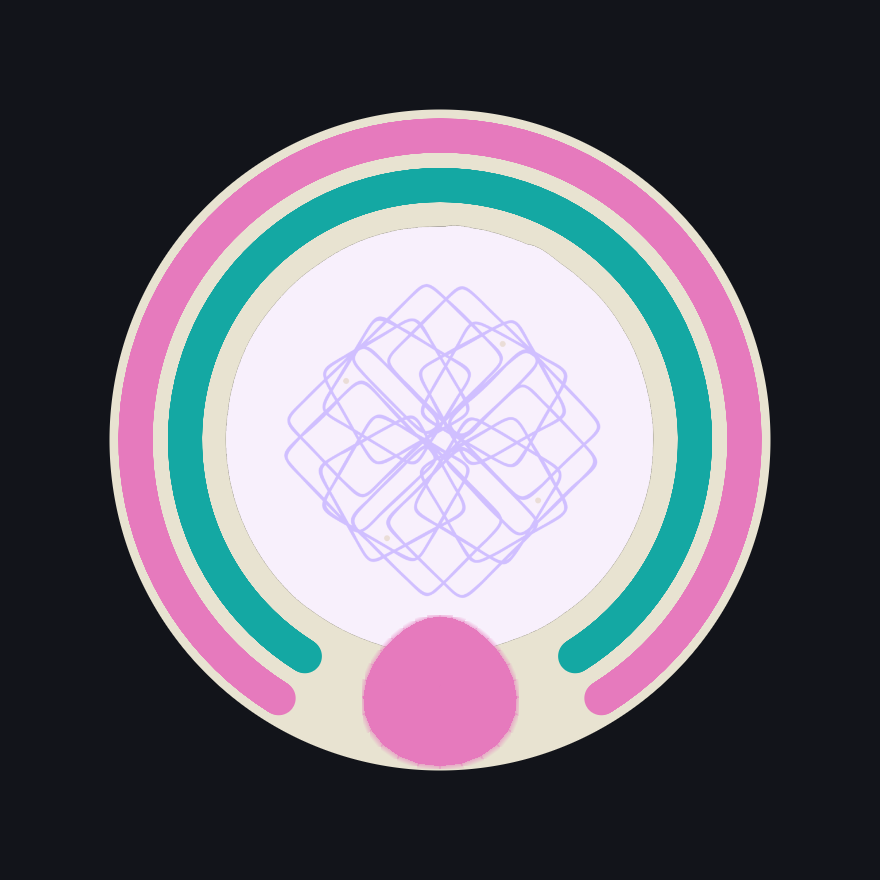
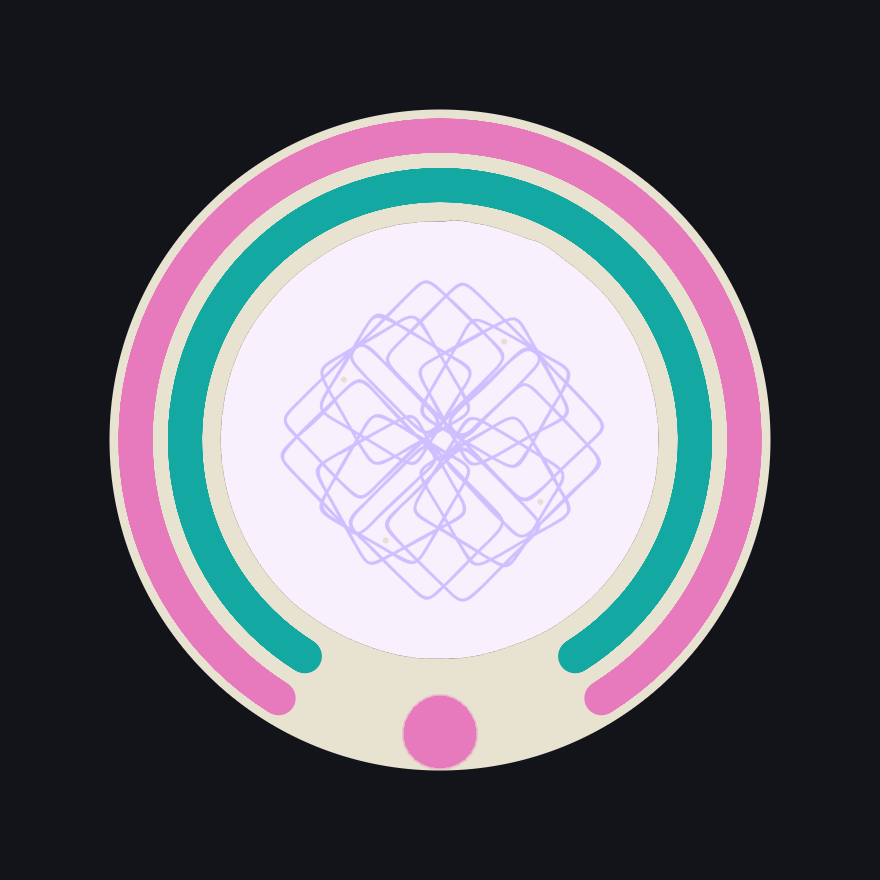
fix(game): shrink tile emblems and capture marks
Scale emblem glyphs (~70%) and cap 1-count capture marks so they
stay out of the center disc. Character preview fit uses the extra
room. Glyph shapes and generation are unchanged.

diff --git a/apa-kan/game/src/visual.rs b/apa-kan/game/src/visual.rs
@@ -8,8 +8,8 @@ use std::f64::consts::PI;
 
 use crate::board::{ArcEdge, Board, NodeId};
 use crate::game::{
-	selected_braid, ActionOutcome, BudgetToken, CaptureDest, Emblem, Game, GameStatus, Player,
-	RingType, RuleSet, Tile, TileColor, ZagMismatchCount, BAG_SIZE_DEFAULT,
+	selected_braid, ActionOutcome, BudgetToken, CaptureDest, CaptureMark, Emblem, Game, GameStatus,
+	Player, RingType, RuleSet, Tile, TileColor, ZagMismatchCount, BAG_SIZE_DEFAULT,
 };
 
 /// Previous desktop tile radius was 22px at a fixed scale of 210 board-px.
@@ -935,16 +935,22 @@ impl TileRingDraw {
 	}
 
 	/// Capture-mark radius sized to the bottom notch for `count` marks (1–3).
+	///
+	/// Capped as a fraction of `tile_radius` so a single mark cannot grow into
+	/// a blob that eats the tile center (close-ups used to hit ~0.23 r).
 	pub fn capture_mark_r(self, tile_radius: f32, count: u8) -> f32 {
 		let notch = tile_ring_notch(count);
 		let rho = self.ring_radius(tile_radius, 0).max(tile_radius * 0.55);
 		let slot = rho * notch / f32::from(count.max(1));
 		let k = match count {
-			0 | 1 => 0.22,
-			2 => 0.18,
-			_ => 0.15,
+			0 | 1 => 0.12,
+			2 => 0.15,
+			_ => 0.13,
 		};
-		(slot * k).max(2.35 * self.scale.max(0.4))
+		let raw = slot * k;
+		let floor = (1.65 * self.scale.max(0.4)).min(tile_radius * 0.07);
+		let cap = tile_radius * 0.11;
+		raw.max(floor).min(cap)
 	}
 
 	/// Polar frame of capture mark `i`: tile center, angle, and radius.
@@ -1022,21 +1028,22 @@ impl TileRingDraw {
 	) -> ([f32; 2], f32, f32) {
 		let mid = down_angle(up);
 		let half = self.emblem_half_extent();
-		let pad = (0.65 * self.scale).max(0.5);
+		let pad = (0.80 * self.scale).max(0.55);
 		let rho = (tile_radius - half - pad).max(tile_radius * 0.42);
 		(tile_center, mid, rho)
 	}
 
-	/// Outer-circle radius of the two-circle moon (~2–3 ring-widths tall).
+	/// Outer-circle radius of the two-circle moon. Kept smaller than a ring-gap
+	/// so the top slot does not eat the center character disc.
 	pub fn crescent_radius(self) -> f32 {
 		let stroke = self.zag_stroke.max(0.55);
-		(self.gap * 1.52).max(stroke * 2.8)
+		(self.gap * 1.08).max(stroke * 2.05)
 	}
 
 	fn emblem_half_extent(self) -> f32 {
 		let stroke = self.zag_stroke.max(0.55);
-		let zag_h = stroke * 3.15;
-		(self.crescent_radius() * 0.92).max(zag_h + stroke * 0.55)
+		let zag_h = stroke * 2.20;
+		(self.crescent_radius() * 0.92).max(zag_h + stroke * 0.45)
 	}
 
 	/// Bowl outline of the crescent (no star/rays). Opening along `up`.
@@ -1081,9 +1088,9 @@ impl TileRingDraw {
 	) -> [Vec<[f32; 2]>; 2] {
 		let (origin, theta, rho) = self.emblem_frame(tile_center, tile_radius, up);
 		let stroke = self.zag_stroke.max(0.55);
-		let h = stroke * 3.15;
-		let w = stroke * 0.78;
-		let sep = w + stroke * 1.12;
+		let h = stroke * 2.20;
+		let w = stroke * 0.70;
+		let sep = w + stroke * 1.00;
 		[
 			zag_zigzag_upright(origin, theta, rho, h, w, -sep),
 			zag_zigzag_upright(origin, theta, rho, h, w, sep),
@@ -1146,7 +1153,7 @@ impl TileRingDraw {
 				strokes: Vec::new(),
 			},
 			Emblem::TwoZagZs => {
-				let width = self.zag_stroke.max(0.55);
+				let width = (self.zag_stroke * 0.82).max(0.45);
 				EmblemGlyph {
 					fills: Vec::new(),
 					strokes: self
@@ -1170,9 +1177,8 @@ impl TileRingDraw {
 	/// Inscribed radius for a centered character medallion.
 	///
 	/// Preview-only: fits inside the innermost *drawn* ring (zag/bead/braid
-	/// bulge included) and stays inward of the emblem slot so a 1-ring tile
-	/// does not cover the top glyph. Capture marks sit on the outer ring, so
-	/// the inner-ring bound already clears them. Not used by generation.
+	/// bulge included) and stays inward of the emblem slot and capture marks.
+	/// Not used by generation.
 	pub fn character_fit_radius(self, tile: Tile, tile_radius: f32) -> f32 {
 		let strokes = tile.ring_strokes();
 		let mut inner_k = 0u8;
@@ -1191,15 +1197,24 @@ impl TileRingDraw {
 			RingType::Braid => self.braid_amp + self.braid_stroke * 0.5,
 			RingType::Normal => self.stroke * 0.5,
 		};
-		let pad = (1.2 * self.scale).max(1.1);
+		let pad = (0.85 * self.scale).max(0.75);
 		let mut fit = rr - bulge - pad;
 		if tile.emblem != Emblem::None {
 			let half = self.emblem_half_extent();
-			let e_pad = (0.65 * self.scale).max(0.5);
+			let e_pad = (0.55 * self.scale).max(0.4);
 			let emblem_inner = tile_radius - 2.0 * half - e_pad;
 			fit = fit.min(emblem_inner - pad);
 		}
-		fit.max(tile_radius * 0.16)
+		let marks = capture_mark_count(tile);
+		let mark_r = self.capture_mark_r(tile_radius, marks);
+		let mark_inward =
+			if matches!(tile.capture, CaptureMark::Triangle) { mark_r * 1.35 } else { mark_r };
+		let rho_track = self.ring_radius(tile_radius, 0).max(tile_radius * 0.55);
+		let mark_rho = (rho_track - mark_r * 0.12)
+			.min(tile_radius - mark_r * 1.05)
+			.max(tile_radius * 0.45);
+		fit = fit.min(mark_rho - mark_inward - pad);
+		fit.max(tile_radius * 0.18)
 	}
 }
 
@@ -4549,9 +4564,10 @@ mod tests {
 				);
 			}
 			let mark_r = draw.capture_mark_r(r, n);
+			assert!(mark_r > 1.4, "marks stay readable at board scale, n={n} r={mark_r}");
 			assert!(
-				mark_r > 2.2,
-				"marks must be clearly bigger than the old 1.45, n={n} r={mark_r}"
+				mark_r <= r * 0.11 + 1e-4,
+				"a single mark cannot balloon into the center, n={n} r={mark_r}"
 			);
 			for i in 0..n {
 				let p = draw.capture_mark_pos(tile, r, i, n, CAPTURE_DOWN_BEVY);
@@ -4655,10 +4671,10 @@ mod tests {
 		assert!(dist_sum / poly.len() as f32 > r * 0.4);
 		assert!(max_hyp < r - 0.2, "crescent stays inside the tile, max={max_hyp} r={r}");
 		assert!(
-			max_y - min_y > draw.gap * 1.2,
-			"bowl fills the notch, height={} gap={}",
+			max_y - min_y > draw.crescent_radius() * 0.85,
+			"bowl fills the notch, height={} r={}",
 			max_y - min_y,
-			draw.gap
+			draw.crescent_radius()
 		);
 		assert!(max_x > 0.0 && min_x < 0.0, "bowl is symmetric about the vertical");
 		assert!(max_y > back_y + (max_y - min_y) * 0.35, "horns point up, above the bowl back");
@@ -4787,6 +4803,12 @@ mod tests {
 		let one_fit = draw.character_fit_radius(one, r);
 		let outer = draw.ring_radius(r, 0);
 		assert!(one_fit < outer, "1-ring emblem tile still keeps art inside the ring");
+		let close_r = 330.0;
+		let close = TileRingDraw::for_radius(close_r);
+		let blob = close.capture_mark_r(close_r, 1);
+		assert!(blob <= close_r * 0.11 + 1e-3, "close-up 1-marks stay capped, r={blob}");
+		assert!(blob > close_r * 0.05, "capped 1-marks remain visible, r={blob}");
+		assert!(draw.crescent_radius() < draw.gap * 1.15, "emblem slot is smaller than a ring gap");
 	}
 
 	#[test]

diff --git a/apa-kan/game/src/render.rs b/apa-kan/game/src/render.rs
@@ -1107,8 +1107,13 @@ mod tests {
 		let mut game = Game::empty(RuleSet::default());
 		let dir = std::path::Path::new(env!("CARGO_MANIFEST_DIR")).join("screenshots");
 		std::fs::create_dir_all(&dir).unwrap();
+		let art_dir = std::path::Path::new("/opt/cursor/artifacts");
+		let _ = std::fs::create_dir_all(art_dir);
 		for (tile, name) in emblem_closeup_tiles(&mut game) {
 			write_tile_closeup(tile, dir.join(name), 880, 330.0);
+			if art_dir.is_dir() {
+				let _ = std::fs::copy(dir.join(name), art_dir.join(name));
+			}
 		}
 	}
 

diff --git a/rfc/rfc-001-001-007-character-library/README.md b/rfc/rfc-001-001-007-character-library/README.md
@@ -70,6 +70,9 @@ circular medallion on a black field.
 - Preview painter: `draw_tile_preview` / `write_png_view_preview` in `render.rs`,
   sized by `TileRingDraw::character_fit_radius`. Screenshots:
   `apa-kan/game/screenshots/characters/`. Not wired into `sample_tile` or Bevy.
+- Shared layout: `TileRingDraw` emblem and capture-mark radii are smaller so
+  the center disc has more room. Glyph shapes are unchanged. That layout is
+  live tile rendering (PNG + Bevy); generation is unchanged.
 
 `game.rs` and `deck.rs` still do not assign characters.
 
